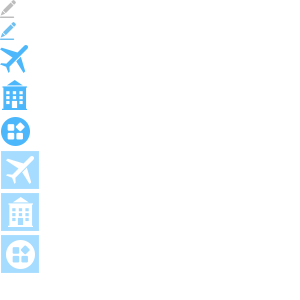
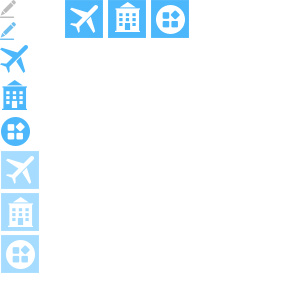
修改采购商短信模块样式问题

Changed region(s): [[0.21, 0.0, 0.63, 0.15]]

diff --git a/static/css/store_ucenter.css b/static/css/store_ucenter.css
@@ -2257,6 +2257,8 @@ ul.role_tab_change li.current_role {
 }
 .fillMobileNo .selTraveler strong, .fillMobileNo .selSubBuyer strong {
      color: #666;
+     padding-bottom: 3px;
+     border-bottom: 1px dashed #afafaf;
 }
 .fillMobileNo .selTraveler strong:hover, .fillMobileNo .selSubBuyer strong:hover {
     color: #01bd8e;
@@ -2271,6 +2273,7 @@ ul.role_tab_change li.current_role {
     display: inline-block;
     vertical-align: middle;
     margin-right: 3px;
+    margin-top: -2px;
 }
 .selMessageTemplate {
     margin:20px 0;
@@ -2438,7 +2441,7 @@ ul.role_tab_change li.current_role {
     
 }
 .typeSMS {
-    margin: 35px 15px; 
+    margin: 35px 0 35px 15px; 
     height:100%;
     overflow: hidden;
 }
@@ -2855,6 +2858,7 @@ ul.role_tab_change li.current_role {
 
 .signFont1{
     margin: 0 16px;
+    font-size: 14px;
 }
 
 .signFont2{
@@ -2905,6 +2909,7 @@ ul.role_tab_change li.current_role {
     width: 178px;
     height: 30px;
     margin-left: -8px;
+    font-size: 14px;
 }
 
 .explain{
@@ -2939,18 +2944,18 @@ ul.role_tab_change li.current_role {
 
 .planeImgCopy{
     background: url(../images/b2b_noteSet/noteSet.png) no-repeat 3px -41px;
-    width: 35px;
-    height: 35px;
+    width: 38px;
+    height: 38px;
     display: inline-block;
 }
 
-.planeImgCopy:hover{
+.planeImgCopy:not(.planeImgCopy_clickStyle):hover{
     cursor: pointer;
-    background: url(../images/b2b_noteSet/noteSet.png) no-repeat -3px -153px;
+    background: url(../images/b2b_noteSet/noteSet.png) no-repeat -1px -151px;
 }
 
 .planeImgCopy_clickStyle{
-    background: url(../images/b2b_noteSet/noteSet.png) no-repeat -3px -153px;
+    background: url(../images/b2b_noteSet/noteSet.png) no-repeat -65px 0;
 }
 
 .hotelImg{
@@ -2961,18 +2966,19 @@ ul.role_tab_change li.current_role {
 }
 
 .hotelImgCopy{
-    background: url(../images/b2b_noteSet/noteSet.png) no-repeat 3px -78px;
-    width: 35px;
-    height: 35px;
+    background: url(../images/b2b_noteSet/noteSet.png) no-repeat 4px -77px;
+    width: 38px;
+    height: 38px;
     display: inline-block;
 }
 
-.hotelImgCopy:hover{
-    background: url(../images/b2b_noteSet/noteSet.png) no-repeat -3px -194px;
+.hotelImgCopy:not(.hotelImgCopy_clickStyle):hover{
+    background: url(../images/b2b_noteSet/noteSet.png) no-repeat -1px -193px;
+    cursor: pointer;
 }
 
 .hotelImgCopy_clickStyle{
-    background: url(../images/b2b_noteSet/noteSet.png) no-repeat -3px -194px;
+    background: url(../images/b2b_noteSet/noteSet.png) no-repeat -108px 0;
 }
 
 .otherImg{
@@ -2983,19 +2989,19 @@ ul.role_tab_change li.current_role {
 }
 
 .otherImgCopy{
-    background: url(../images/b2b_noteSet/noteSet.png) no-repeat 2px -114px;
-    width: 35px;
-    height: 35px;
+    background: url(../images/b2b_noteSet/noteSet.png) no-repeat 4px -112px;
+    width: 38px;
+    height: 38px;
     display: inline-block;
 }
 
-.otherImgCopy:hover{
+.otherImgCopy:not(.otherImgCopy_clickStyle):hover{
     background: url(../images/b2b_noteSet/noteSet.png) no-repeat -3px -236px;
-
+    cursor: pointer;
 }
 
 .otherImgCopy_clickStyle{
-    background: url(../images/b2b_noteSet/noteSet.png) no-repeat -3px -236px;
+    background: url(../images/b2b_noteSet/noteSet.png) no-repeat -151px 0;
 
 }
 
@@ -3174,7 +3180,7 @@ ul.role_tab_change li.current_role {
 }
 
 .contentLeft{
-    width: 75px;
+    width: 72px;
     height: 100%;
     float: left;
 }

diff --git a/采购商/用户中心/发送短信.html b/采购商/用户中心/发送短信.html
@@ -1034,7 +1034,7 @@
             </div>
             <div id="modelContent" class="modelContentCls">
                 <div class="contentLeft">
-                    <div class="contentLeftFont">模板内容</div>
+                    <div class="contentLeftFont">模板内容:</div>
                 </div>
                 <div class="contentCenter">
                     <textarea class="contentTxtarea" onpropertychange="setWordNumText()" oninput="setWordNumText()"></textarea>
